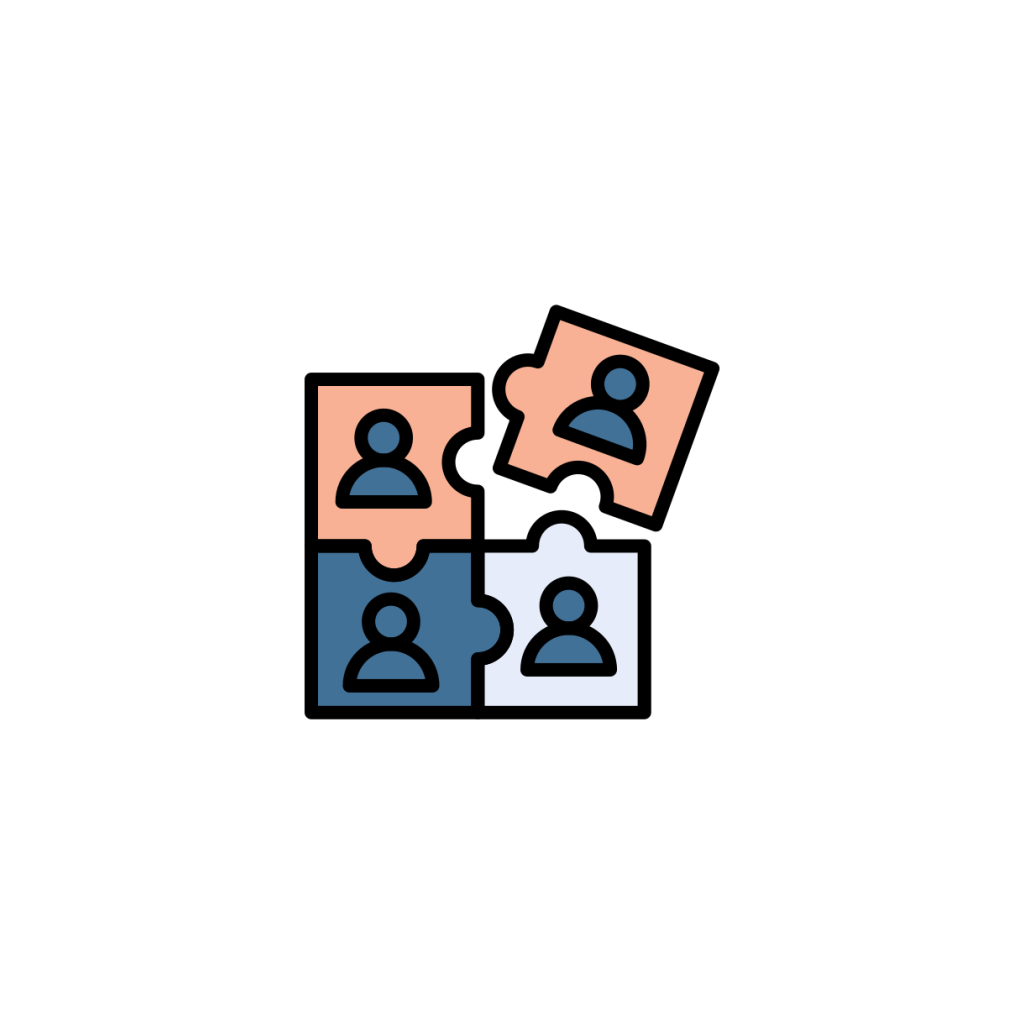
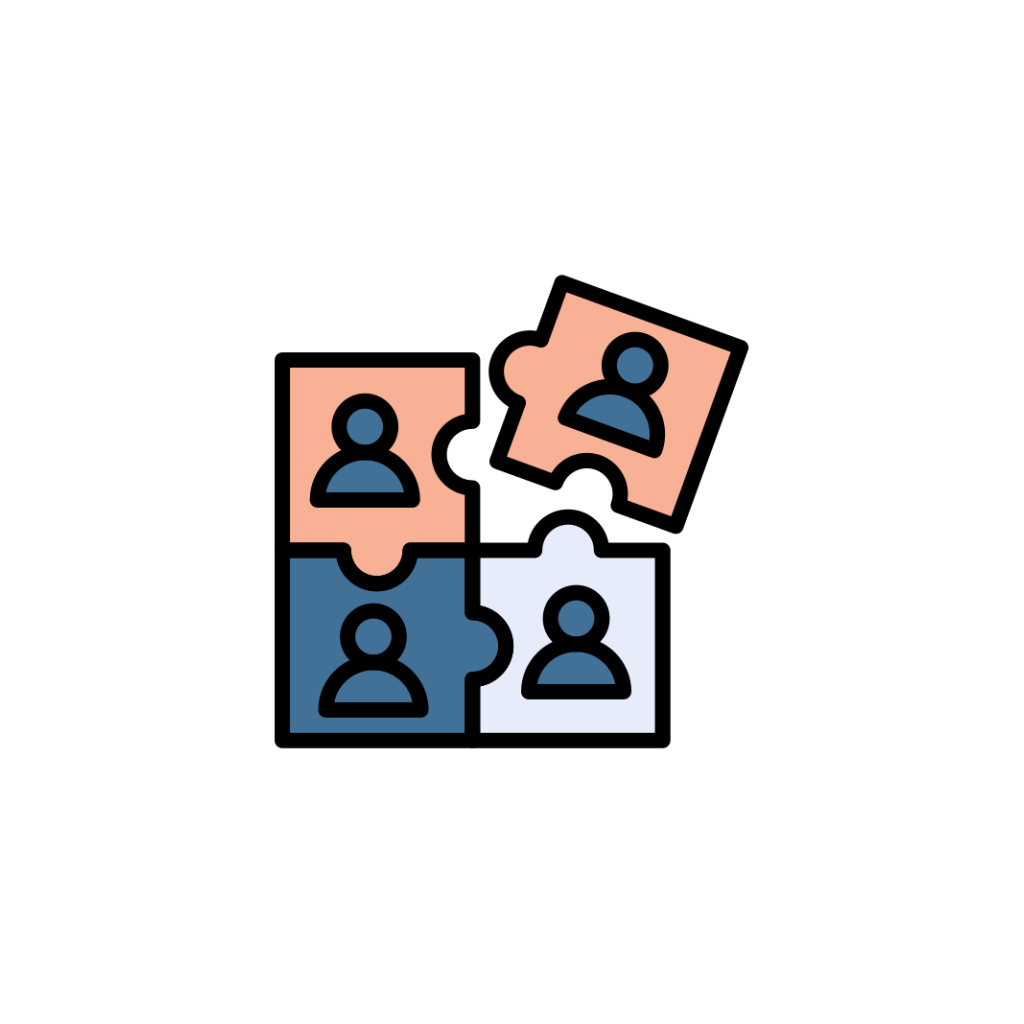
adaugat logica pentru notificari firebase

Changed region(s): [[0.25, 0.25, 0.75, 0.75]]

diff --git a/mobile-app/src/services/notificationService.ts b/mobile-app/src/services/notificationService.ts
@@ -1,0 +1,82 @@
+import * as Device from 'expo-device';
+import * as Notifications from 'expo-notifications';
+import Constants from 'expo-constants';
+import { Platform } from 'react-native';
+
+// Configure how notifications are handled when the app is in foreground
+Notifications.setNotificationHandler({
+  handleNotification: async () => ({
+    shouldShowAlert: true,
+    shouldPlaySound: true,
+    shouldSetBadge: false,
+  } as any),
+});
+
+export async function registerForPushNotificationsAsync() {
+  let token;
+
+  if (Platform.OS === 'android') {
+    await Notifications.setNotificationChannelAsync('default', {
+      name: 'default',
+      importance: Notifications.AndroidImportance.MAX,
+      vibrationPattern: [0, 250, 250, 250],
+      lightColor: '#FF231F7C',
+    });
+  }
+
+  if (Device.isDevice) {
+    const { status: existingStatus } = await Notifications.getPermissionsAsync();
+    let finalStatus = existingStatus;
+    if (existingStatus !== 'granted') {
+      const { status } = await Notifications.requestPermissionsAsync();
+      finalStatus = status;
+    }
+    if (finalStatus !== 'granted') {
+      console.log('Failed to get push token for push notification!');
+      return;
+    }
+    
+    try {
+      const projectId =
+        Constants?.expoConfig?.extra?.eas?.projectId ?? Constants?.easConfig?.projectId;
+      
+      if (!projectId) {
+        console.log('Project ID not found');
+      }
+
+      token = (await Notifications.getExpoPushTokenAsync({
+        projectId,
+      })).data;
+      
+      console.log('Expo Push Token:', token);
+    } catch (e) {
+      console.error('Error getting push token:', e);
+    }
+  } else {
+    console.log('Must use physical device for Push Notifications');
+  }
+
+  return token;
+}
+
+export function setupNotificationListeners(
+  onNotificationReceived?: (notification: Notifications.Notification) => void,
+  onNotificationResponse?: (response: Notifications.NotificationResponse) => void
+) {
+  const receivedSubscription = Notifications.addNotificationReceivedListener(notification => {
+    if (onNotificationReceived) {
+      onNotificationReceived(notification);
+    }
+  });
+
+  const responseSubscription = Notifications.addNotificationResponseReceivedListener(response => {
+    if (onNotificationResponse) {
+      onNotificationResponse(response);
+    }
+  });
+
+  return () => {
+    receivedSubscription.remove();
+    responseSubscription.remove();
+  };
+}

diff --git a/mobile-app/app/_layout.tsx b/mobile-app/app/_layout.tsx
@@ -1,14 +1,16 @@
 import { DarkTheme, DefaultTheme, ThemeProvider as NavThemeProvider } from '@react-navigation/native';
-import { Stack } from 'expo-router';
+import { Stack, router } from 'expo-router';
 import { StatusBar } from 'expo-status-bar';
 import 'react-native-reanimated';
 import { SafeAreaProvider } from 'react-native-safe-area-context';
+import { useEffect } from 'react';
 
 import { useColorScheme } from '@/hooks/use-color-scheme';
 import { ThemeProvider } from '../src/context/ThemeContext';
 import { AuthProvider } from '../src/context/AuthContext';
 import { ChatNotificationProvider } from '../src/context/ChatNotificationContext';
 import { LocaleProvider } from '../src/context/LocaleContext';
+import { setupNotificationListeners } from '../src/services/notificationService';
 
 export const unstable_settings = {
   anchor: '(tabs)',
@@ -16,6 +18,45 @@ export const unstable_settings = {
 
 export default function RootLayout() {
   const colorScheme = useColorScheme();
+
+  useEffect(() => {
+    const cleanup = setupNotificationListeners(
+      (notification) => {
+        // Notification received in foreground
+      },
+      (response) => {
+        const data = response.notification.request.content.data as any;
+        if (data?.link) {
+          try {
+            // link format: /chat/:conversationId/:messageId
+            const parts = data.link.split('/');
+            // parts[0] is empty, parts[1] is 'chat', parts[2] is conversationId, parts[3] is messageId
+            if (parts[1] === 'chat' && parts[2]) {
+               router.push({
+                  pathname: '/(tabs)/chat',
+                  params: { conversationId: parts[2], messageId: parts[3] }
+               });
+            } else if (parts[1] === 'users' && parts[3] === 'reviews') {
+               // /users/:id/reviews
+               router.push({
+                  pathname: '/all-reviews',
+                  params: { userId: parts[2] }
+               });
+            } else if (parts[1] === 'announcements' && parts[2]) {
+               // /announcements/:id
+               router.push({
+                  pathname: '/announcement-details',
+                  params: { id: parts[2] }
+               });
+            }
+          } catch (e) {
+            console.error('Error handling notification link:', e);
+          }
+        }
+      }
+    );
+    return cleanup;
+  }, []);
 
   return (
     <ThemeProvider>

diff --git a/mobile-app/src/context/AuthContext.tsx b/mobile-app/src/context/AuthContext.tsx
@@ -4,6 +4,7 @@ import Constants from 'expo-constants';
 import storage from '../services/storage';
 import api from '../services/api';
 import { loginWithCredentials, saveToken, logout as doLogout } from '../services/auth';
+import { registerForPushNotificationsAsync } from '../services/notificationService';
 
 interface UserProfile {
   id?: string;
@@ -66,19 +67,9 @@ export const AuthProvider = ({ children }: { children: ReactNode }) => {
           await fetchProfile();
           // After profile is available, register for push notifications
           try {
-            const { status: existingStatus } = await Notifications.getPermissionsAsync();
-            let finalStatus = existingStatus;
-            if (existingStatus !== 'granted') {
-              const { status } = await Notifications.requestPermissionsAsync();
-              finalStatus = status;
-            }
-            if (finalStatus === 'granted') {
-              const projectId = (Constants as any)?.expoConfig?.extra?.eas?.projectId || (Constants as any)?.easConfig?.projectId;
-              const pushTokenData = await Notifications.getExpoPushTokenAsync(projectId ? { projectId } : undefined as any);
-              const tokenValue = (pushTokenData as any)?.data || (pushTokenData as any)?.expoPushToken;
-              if (tokenValue) {
-                try { await api.post('/api/users/push-token', { token: tokenValue }); } catch (_) {}
-              }
+            const tokenValue = await registerForPushNotificationsAsync();
+            if (tokenValue) {
+              try { await api.post('/api/users/push-token', { token: tokenValue }); } catch (_) {}
             }
           } catch (e) {
             // ignore push errors to not block auth
@@ -111,6 +102,17 @@ export const AuthProvider = ({ children }: { children: ReactNode }) => {
         await saveToken(data.token);
         setToken(data.token);
         await fetchProfile();
+
+        // Register for push notifications
+        try {
+          const tokenValue = await registerForPushNotificationsAsync();
+          if (tokenValue) {
+            try { await api.post('/api/users/push-token', { token: tokenValue }); } catch (_) {}
+          }
+        } catch (e) {
+          // ignore
+        }
+
         setLoading(false);
         return true;
       }

diff --git a/backend/controllers/ReviewController.js b/backend/controllers/ReviewController.js
@@ -39,6 +39,39 @@ const createReview = async (req, res) => {
       console.warn('Nu am putut actualiza câmpul reviews al user-ului:', pushErr.message);
     }
 
+    // Send notification
+    try {
+      const Notification = require('../models/Notification');
+      await Notification.create({
+        userId: reviewedUserId,
+        message: `Ai primit o recenzie nouă (${parsedScore}/5)`,
+        link: `/users/${reviewedUserId}/reviews`,
+      });
+
+      if (reviewed.pushToken && /^ExponentPushToken\[.+\]$/.test(reviewed.pushToken)) {
+        const doFetch = (url, opts) => (typeof fetch !== 'undefined' ? fetch(url, opts) : require('node-fetch')(url, opts));
+        
+        let authorName = 'Cineva';
+        if (authorId) {
+             const author = await User.findById(authorId).select('firstName lastName');
+             if (author) authorName = `${author.firstName || ''} ${author.lastName || ''}`.trim() || 'Cineva';
+        }
+
+        await doFetch('https://exp.host/--/api/v2/push/send', {
+          method: 'POST',
+          headers: { 'Content-Type': 'application/json' },
+          body: JSON.stringify({
+            to: reviewed.pushToken,
+            title: 'Recenzie nouă',
+            body: `${authorName} ți-a lăsat o recenzie de ${parsedScore} stele.`,
+            data: { link: `/users/${reviewedUserId}/reviews` },
+          }),
+        });
+      }
+    } catch (notifErr) {
+      console.warn('Eroare trimitere notificare recenzie:', notifErr);
+    }
+
     // Return populated review (author basic info) for frontend convenience
     try {
       const populated = await Review.findById(review._id).populate('author', 'firstName lastName avatar').lean();

diff --git a/backend/routes/favoriteRoutes.js b/backend/routes/favoriteRoutes.js
@@ -51,6 +51,36 @@ router.post('/:announcementId', auth, async (req, res) => {
       }
     } catch (_) {}
 
+    // Notify announcement owner
+    if (String(ann.user) !== String(req.userId)) {
+      try {
+        const Notification = require('../models/Notification');
+        const owner = await User.findById(ann.user).select('pushToken');
+        
+        await Notification.create({
+          userId: ann.user,
+          message: `Cineva a adăugat anunțul "${ann.title}" la favorite!`,
+          link: `/announcements/${ann._id}`,
+        });
+
+        if (owner && owner.pushToken && /^ExponentPushToken\[.+\]$/.test(owner.pushToken)) {
+           const doFetch = (url, opts) => (typeof fetch !== 'undefined' ? fetch(url, opts) : require('node-fetch')(url, opts));
+           await doFetch('https://exp.host/--/api/v2/push/send', {
+             method: 'POST',
+             headers: { 'Content-Type': 'application/json' },
+             body: JSON.stringify({
+               to: owner.pushToken,
+               title: 'Anunț apreciat',
+               body: `Cineva a adăugat anunțul "${ann.title}" la favorite!`,
+               data: { link: `/announcements/${ann._id}` },
+             }),
+           });
+        }
+      } catch (e) {
+        console.warn('Failed to notify owner about favorite:', e);
+      }
+    }
+
     res.status(201).json({
       message: 'Adăugat la favorite',
       favoriteIds: user.favorites,

diff --git a/mobile-app/scripts/generate-icon-safe.js b/mobile-app/scripts/generate-icon-safe.js
@@ -17,9 +17,9 @@ const path = require('path');
 
     const srcImage = await Jimp.read(srcPath);
 
-    // Resize source image to fit within ~42% of canvas while preserving aspect
-    // Smaller than before so the foreground is clearly framed and avoids being visually cut
-    const maxContent = Math.floor(size * 0.42);
+    // Resize source image to fit within ~48% of canvas while preserving aspect
+    // Slightly larger than before so the foreground appears a bit bigger but still framed
+    const maxContent = Math.floor(size * 0.48);
     srcImage.contain(maxContent, maxContent, Jimp.HORIZONTAL_ALIGN_CENTER | Jimp.VERTICAL_ALIGN_MIDDLE);
 
     // Create canvas
